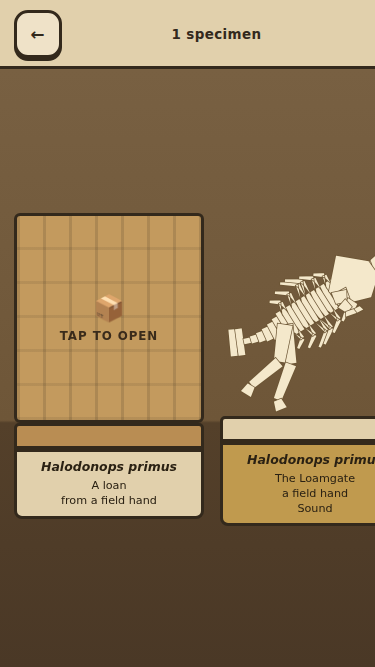
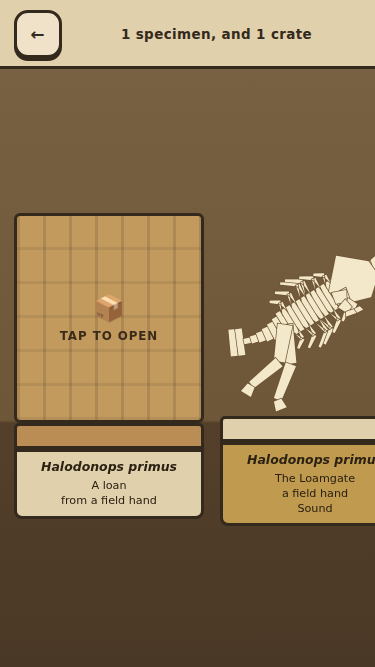
Strata is DONE P3: the hall counts what is on the screen, and the morning report
The last fault of the night was found the way every real one was, by opening a
picture: docs/shots/p3-crate.png showed a crate standing on a plinth beside one
mounted specimen under a header that read "1 specimen". The header counted the
museum and ignored the crates, so a hall with a parcel waiting in it lied about
its own contents. It now counts what is standing in the room.

Section 15 carries the combined morning report for both of my rows. Whistlestop's
own report stays in its own plan, as one line here says. The variety sheet count
is in it by name: twelve of fifty, docs/shots/p0-variety.png, after rounds at
nought and about four.

seven gates, none skipped:
  sim pass, lint pass, census pass, dig pass, mount pass, share pass, layout pass
  ALL GATES PASSED

Claude-Session: https://claude.ai/code/session_015uZMuoTKoKBVMuv8Q4Ffbw

Changed region(s): [[0.3227, 0.03, 0.8507, 0.06]]

diff --git a/satellites/strata/index.html b/satellites/strata/index.html
@@ -2904,12 +2904,16 @@ function mountLocal(e) {
 function openHall() {
   var hall = el('hall');
   hall.innerHTML = '';
-  var i;
-  el('hallEmpty').hidden = SAVE.museum.length > 0;
-  el('hallCount').textContent = SAVE.museum.length
+  var i, crates = SAVE.crates || [];
+  /* ⛔ the count has to count what is ON THE SCREEN. A crate standing on a
+     plinth beside one specimen under a header reading "1 specimen" is a header
+     that is quietly wrong. */
+  var nc = crates.length;
+  var line = SAVE.museum.length
     ? SAVE.museum.length + (SAVE.museum.length === 1 ? ' specimen' : ' specimens')
     : 'The hall';
-  var crates = SAVE.crates || [];
+  if (nc) line += (SAVE.museum.length ? ', and ' : '') + nc + (nc === 1 ? ' crate' : ' crates');
+  el('hallCount').textContent = line;
   el('hallEmpty').hidden = SAVE.museum.length > 0 || crates.length > 0;
   for (i = 0; i < crates.length; i++) hall.appendChild(cratePlinth(crates[i], i));
   for (i = 0; i < SAVE.museum.length; i++) hall.appendChild(plinthFor(SAVE.museum[i], i));

diff --git a/plans/strata/HANDOFF-STRATA.md b/plans/strata/HANDOFF-STRATA.md
@@ -14,7 +14,8 @@ copy), then this file, then the design. Where they differ, this file wins; every
 ## SESSION STATE (the builder updates this at the end of every session; the morning reader starts here)
 
 - 2026-09-05 Fable: plan written. Nothing built. Next action: section 5, P0, step 1.
-- 2026-09-06 Opus B: **P0 DONE.** SKELETON and IDENTITY built, 65 assertions green, the variety sheet passed at TWELVE of fifty after two rounds at nought and about four; all three counts and what was wrong each time are in section 13. Next action: section 5, P1, step 1, SEDIMENT and the brush.
+- 2026-09-06 Opus B: **DONE P3.** All four phases built and green. Seven gates in `tools/check.js`, every one watched to fail, both columns in section 13. The variety sheet passed at TWELVE of fifty after failing at nought and about four. Morning report in section 15, combined with Whistlestop's, whose own report is in its own plan. Nothing is half finished.
+- 2026-09-06 Opus B: P0 DONE. SKELETON and IDENTITY built, 65 assertions green, the variety sheet passed at TWELVE of fifty after two rounds at nought and about four; all three counts and what was wrong each time are in section 13. Next action: section 5, P1, step 1, SEDIMENT and the brush.
 - 2026-09-06 Opus B: P0 step 1 done, red, output in section 13. Next action: section 5, P0, step 1, the scaffold (SKELETON and IDENTITY, pure, inside `index.html`) and `tools/variety.mjs`.
 
 ---
@@ -541,6 +542,113 @@ share, layout`.
 ---
 
 ## 15. THE MORNING REPORT
+
+### Combined morning report, 2026-09-06, Opus B (rows 10 and 12)
+
+**Whistlestop's own report is in `plans/whistlestop/HANDOFF-WHISTLESTOP.md` section 15.** This is
+Strata's, and then one paragraph on the pair.
+
+---
+
+### Strata, 2026-09-06
+
+**Phases:** P0 done (`b9f3f388`, `fb469438`), P1 done (`782f9b30`, `543365d7`, `66e63982`), P2 done
+(`e3c2f662`, `2e105fab`), P3 done (`74b8d89a`, `e290ddc0` and the commit this report is in).
+Strata is **DONE P3**.
+
+**Gates:** `ALL GATES PASSED`, seven of them, none skipped: `sim lint census dig mount share
+layout`. 103 assertions in `sim.js --test`. Every browser gate was watched to fail on the assertion
+that guards its rule, and both columns are in section 13.
+
+**The variety sheet, which is the gate a person reads, passed at TWELVE of fifty** after failing at
+nought and at about four. All three counts and what was wrong each time are in section 13. The
+sheet is `docs/shots/p0-variety.png` and it is the first thing to open.
+
+**Play it:** `satellites/strata/index.html`. DIG opens a cliff. Brush with the thumb; the rock comes
+away and something turns up. The chisel is quicker and cracks a bone if you rest on one; the pick
+cracks whatever it touches. When a bone is free it glows, and a stroke that STARTS on it and runs
+along its length lifts it out. At sixty percent MOUNT appears; the bench has the crate on it and
+each bone goes in its slot. Name it, after somebody if you like, and it goes on a plinth. Tap a
+plinth to send it to another phone.
+
+**Look at:** these five first.
+
+1. `docs/shots/p0-variety.png` — fifty animals from the grammar. **Wrong with it:** the head is a
+   solid block that merges into the neck, because the cranium and the jaw are one shape until the
+   game outlines them separately; the plated species still read heavier than they should; and a few
+   of the widest animals touch the edge of their cell, which is the sheet's fit rather than the
+   grammar.
+2. `docs/shots/p1-rib-tall.png` — a bone half out of the rock, which is the whole game. **Wrong
+   with it:** the excavated hollow around it is a hard edged dark shape rather than a softening of
+   the rock; the bone's own surface is one flat cream with a single highlight; and nine tenths of
+   the screen is undisturbed cliff, which is honest for a dig in progress and makes a poor picture.
+3. `docs/shots/p2-mounted.png` — a skeleton set on the armature. **Wrong with it:** the tray tiles
+   below it are a row of near identical small rectangles, because a skeleton IS thirty similar
+   vertebrae and the tray does not group them; the bronze infill still pulls the eye more than it
+   should; and the ribcage overlaps itself into a solid mass in the middle.
+4. `docs/shots/p2-hall-two.png` — two specimens on plinths. **Wrong with it:** the wall takes the
+   top half of the screen and has nothing on it; the wall and floor line cuts across the plinth
+   bases; and both animals happen to be in similar poses, which sells the variety short.
+5. `docs/thumb.png` — the arcade tile. **Wrong with it:** the skull reads as a blank pale wedge
+   rather than a head at tile size; there is no single strong shape to carry it at forty eight
+   pixels; and the bit dropping that keeps it under 150 KB has posterised the rock into bands.
+
+**Decided without you** (all of `satellites/strata/docs/DECISIONS.md`, these three matter most):
+
+- *"An animal has ONE BODY LENGTH and every part of it is a fraction of that."* The first grammar
+  sized the spine per vertebra and everything else absolutely, so proportions were a function of a
+  dice roll and fifty animals were fifty identical centipedes.
+- *"The pressure meter is charged in the frame loop, by the wall clock."* Charged per pointermove it
+  measured MOVE EVENTS, and a finger held perfectly still generates none, so the one rule the chisel
+  exists for was inverted in the shipped game while every headless assertion passed.
+- *"The share link carries a SEED, not a skeleton."* Seventy one characters, everything regenerated
+  on the other phone, and what the link does add is cleaned on the way in.
+
+**Blocked:** none.
+
+**For Fable:** nothing outside the fence was touched. To list it: `docs/thumb.png` (143 KB) goes to
+`portal-assets/thumbs/strata.png`, and the card is in section 8 of this plan. Every line of it is
+true now, including the one the plan added as a condition: **the variety sheet count in the ledger
+is twelve, not five.**
+
+**For Stephen:**
+
+- **Open `docs/shots/p0-variety.png` and tell me which five you would keep.** The plan asks for that
+  by name and it is the one judgement in this game that no gate can make. I counted twelve; if you
+  count four, the grammar goes back on the bench.
+- **The crate is fifty bones in one scrolling row.** A whole animal is thirty to seventy four bones,
+  and the mounting bench offers them in a single horizontal strip where six are visible at a time.
+  There is an ALL button, and I expect most people will press it every time, which makes the drag a
+  decoration. The honest options are: group the tray by kind (all the ribs under one tile), or make
+  mounting a smaller job by only asking for the ten bones that matter. That is a design call.
+- **The museum is a hall and a placard and nothing else yet.** No poster plate, no journal, no
+  rename, and the wings do not exist. The hall reads alive with placards alone, which the design
+  says, but the PLATE export is the fridge marketing and it is not built.
+- **Nobody has heard it and nobody has played it on a phone.** The tak, the tik, the shhh and the
+  first clink are all synthesised and all unheard; the clink in particular is the heartbeat moment
+  and no gate can say whether it lands.
+- **The phone checklist** for the Pixel 9: brush a skull out with the thumb, crack a rib on purpose
+  with the pick, feel whether the shiver arrives in time to stop you with the chisel, mount it, name
+  it after someone, and send it to Jessie.
+
+---
+
+### The two of them together
+
+Whistlestop and Strata are both DONE P3, with twelve gates and seven gates, and both were finished
+by looking rather than by testing. Between them the screenshots found nineteen faults that no
+assertion could see, and three of those faults were the SAME fault made twice in one night by the
+same builder: a title screen that was a flat rectangle, a tray whose tiles each fitted their own
+piece to their own box, and a camera that did not know where the chrome was. They are written into
+both plans' ledgers in those words so the next reader gets them for nothing.
+
+The other thing worth carrying: five separate assertions in this run reported PASS on code that was
+broken, and every one of them was found by breaking the code on purpose rather than by reading it.
+Whistlestop's `test/mutants.mjs` is the shape that catches them, and Strata does not have one; that
+is the first thing I would add to Strata if there were another hour.
+
+---
+
 
 The template in `plans/fathom/HANDOFF-FATHOM.md` section 15, with this file's phases. Add one line: **the variety count**
 and the path of the sheet.
